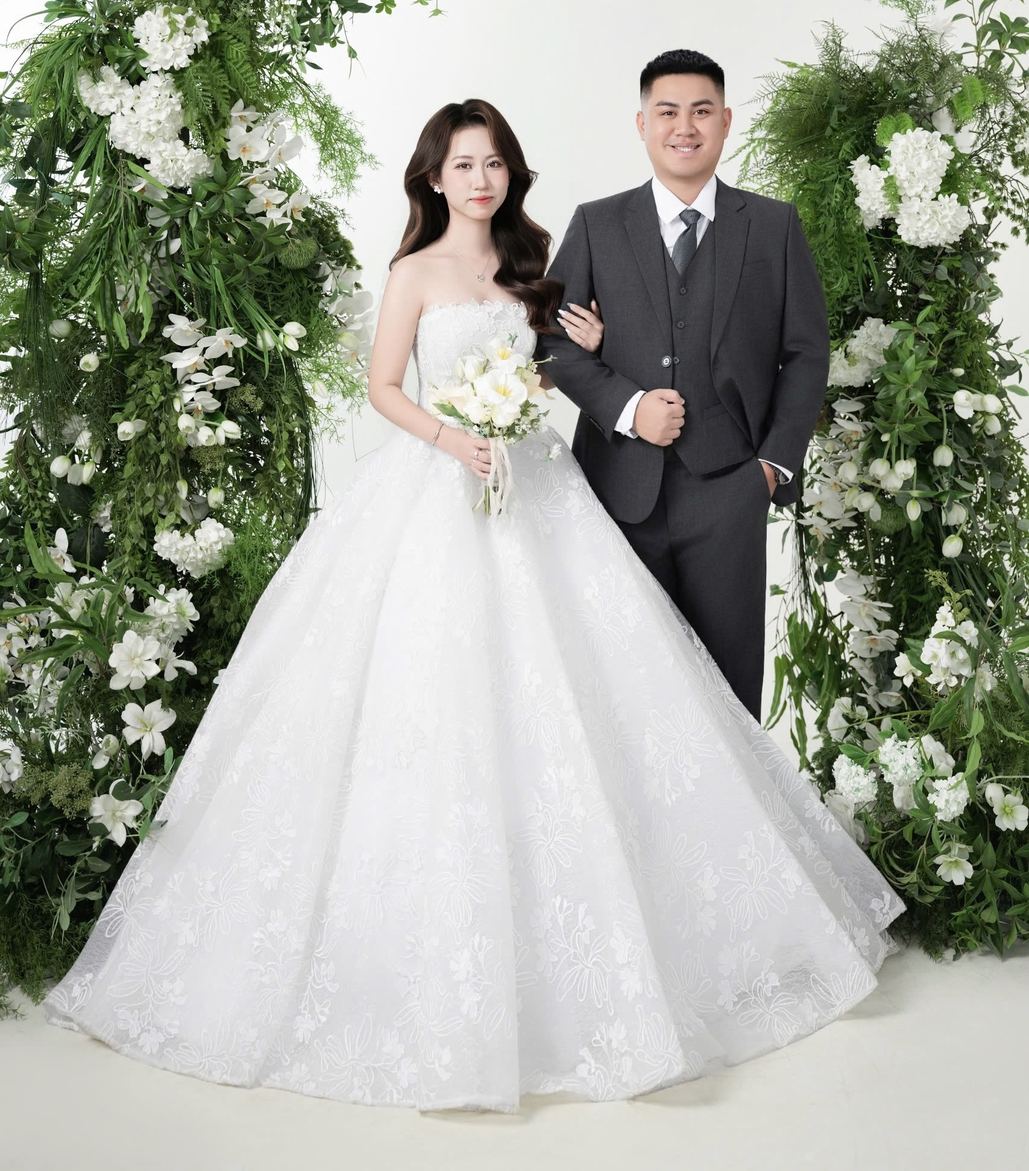
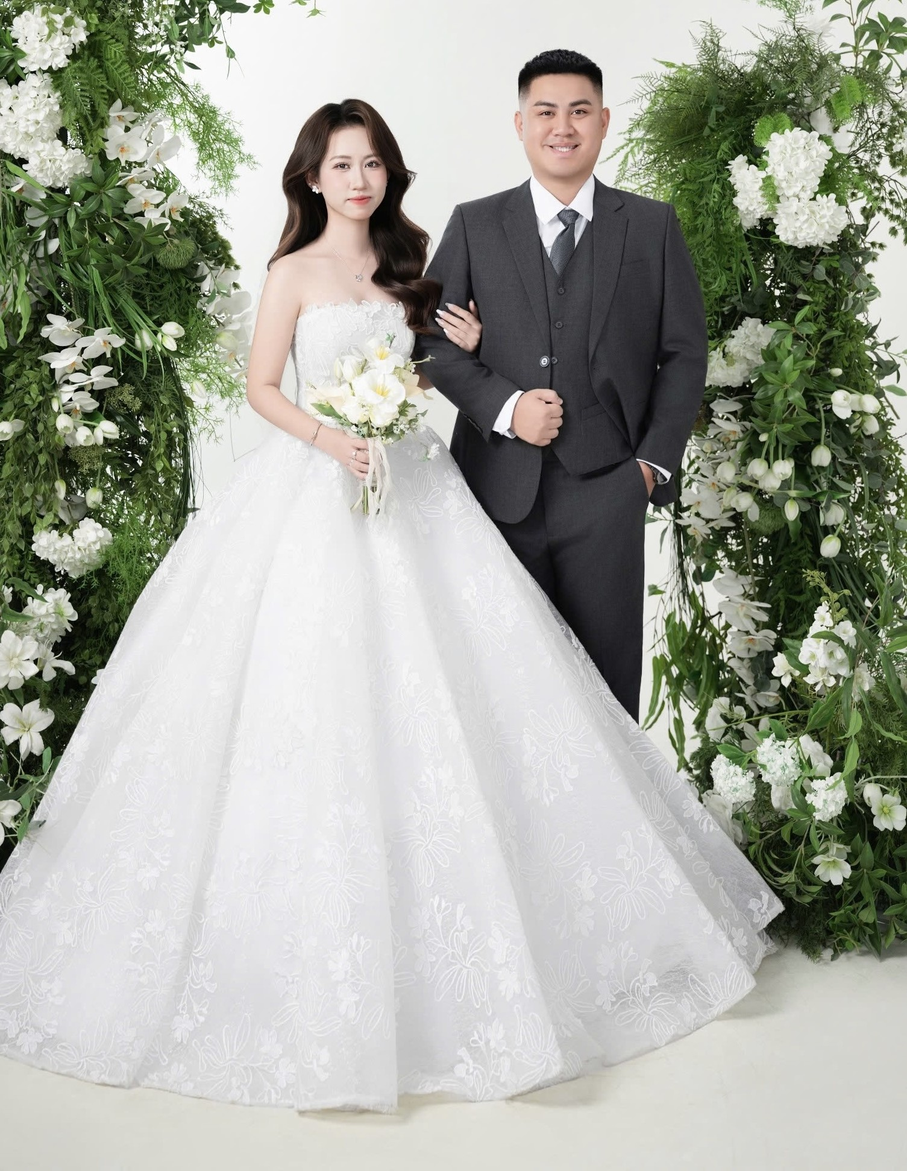
FIX

diff --git a/index.html b/index.html
@@ -1002,7 +1002,7 @@
     <!-- THANK YOU -->
     <section id="thankyou" class="section-thankyou bg_overlay uk-position-z-index">
         <div class="uk-overlay uk-overlay-primary uk-position-cover"> </div>
-        <img src="images/HmwdIdo9EYF57IxSdpeFKoSHPbMGwXnUQBsP8HEh.jpg" alt="" class="thankyou-bg thankyou_img" style="object-position:">
+        <img src="images/thank.jpg" alt="" class="thankyou-bg thankyou_img" style="object-position:">
         <div class="thankyou-body container uk-position-relative uk-position-z-index">
             <h2 class="script-font uk-heading-medium uk-text-center text-white" data-aos="fade-up" data-aos-duration="2500">Thank you!</h2>
             <p data-aos="fade-down" data-aos-duration="3000">Sự hiện diện của mọi người là niềm vui và vinh hạnh cho gia đình
